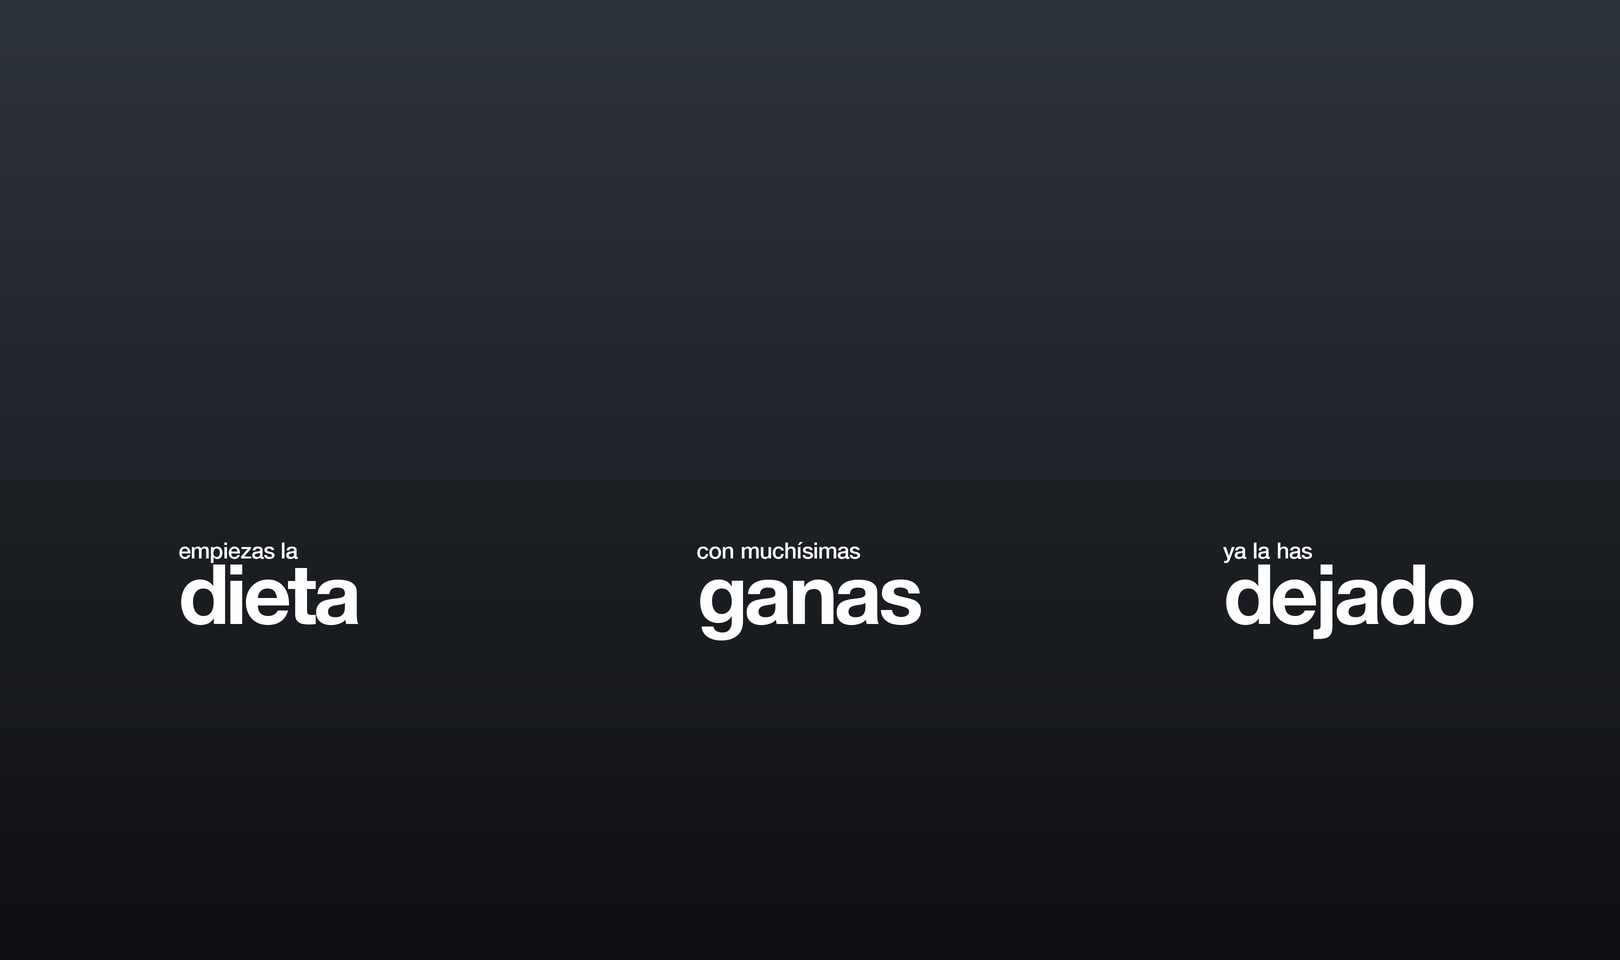
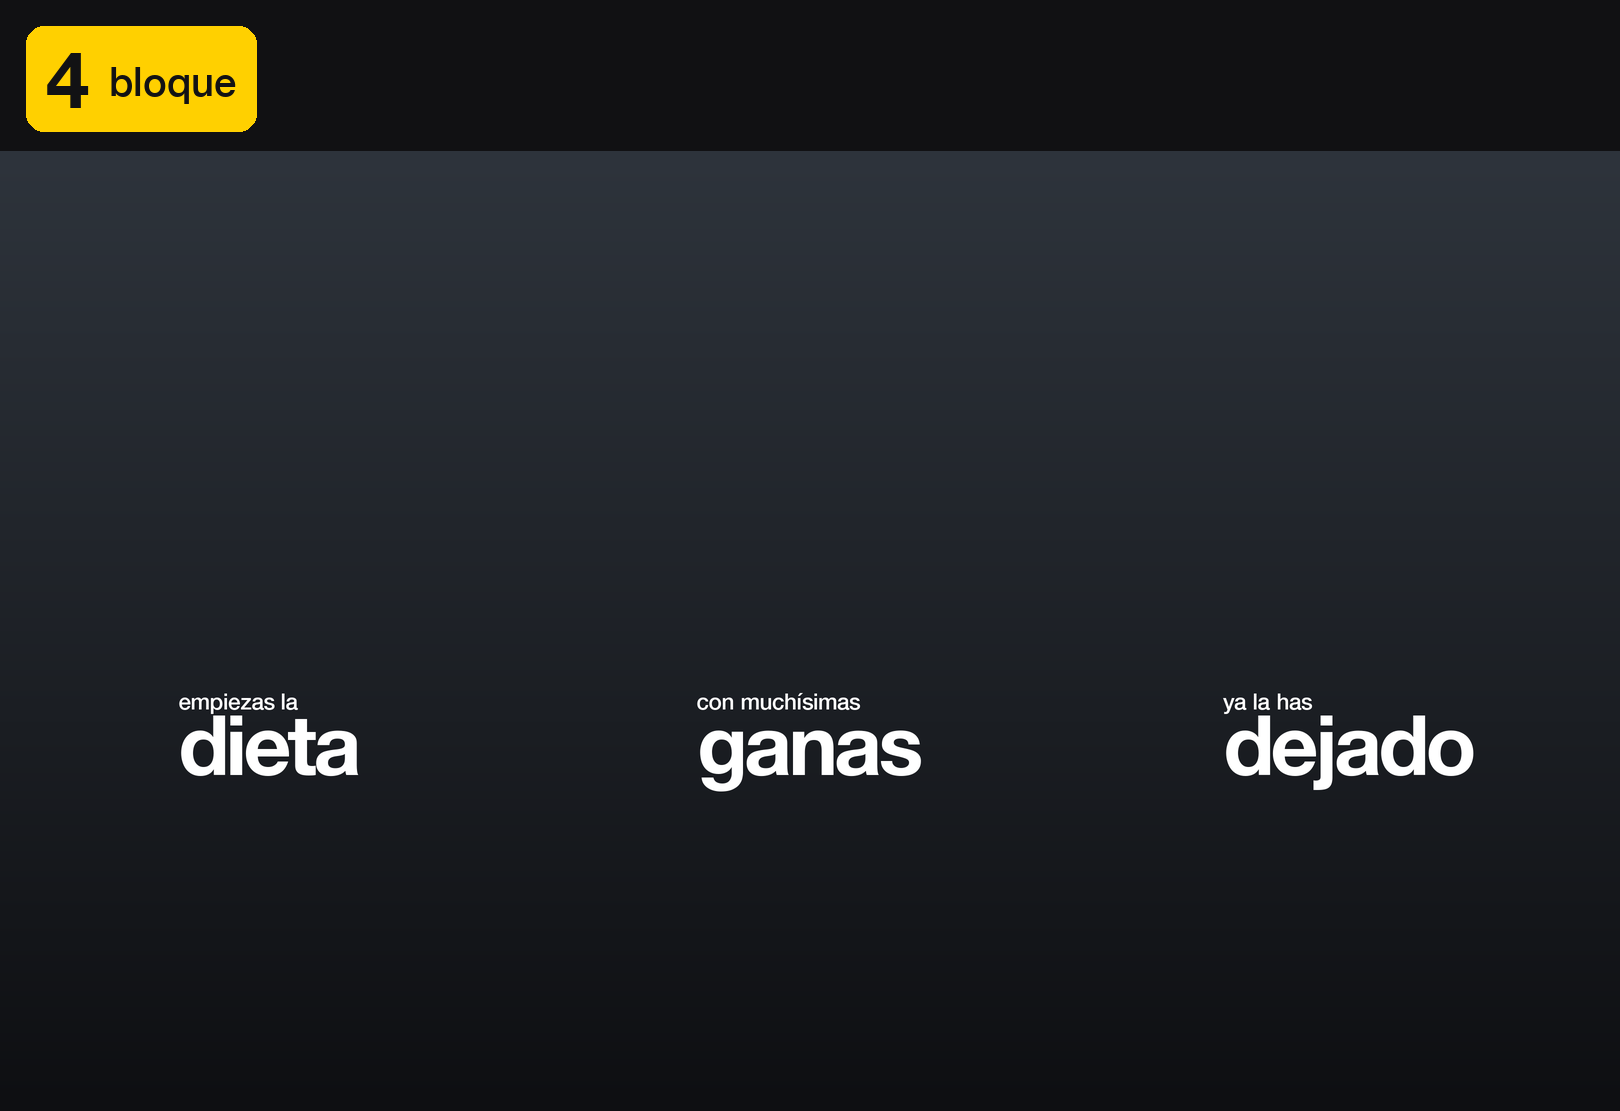
Numeración en todas las imágenes: subtítulos 1-4 y estilos 1-11
Cada muestra y captura lleva su número y nombre en una franja encima (sin tapar
el contenido) y el catálogo de estilos tiene la columna N.º, para pedirlos por número.

diff --git a/editor/catalogo/catalogo.md b/editor/catalogo/catalogo.md
@@ -2,21 +2,23 @@
 
 ## Formatos completos (aprobados en vídeos reales, con captura)
 
+Cada captura lleva su número arriba: pide el estilo por su número («hazlo con el estilo 3»).
+
 Motor listo para Mac y Windows: `ranking-circulos`, `dos-barras`, `errores-detras`, `mal-bien-detras`, `marcador-funciona`. El resto trae un motor de referencia que Claude adapta.
 
-| Estilo | Para qué | Captura |
-|---|---|---|
-| 🆕 `movil-cifras-coral` | Persona a cámara vendiendo un servicio: siempre de fondo, móvil con pantalla de bloqueo, 100 muñecos a pantalla completa, cifra blanca + cursiva coral, subtítulos letra a letra | `capturas/movil-cifras-coral.jpg` |
-| 🆕 `zambullida-epica` | Anuncio épico con voz en off a 60 fps: la cámara se mete dentro de los objetos (globo, mapa, móviles 3D, reloj, notas) y la escena siguiente se abre desde dentro | `capturas/zambullida-epica.jpg` |
-| ⭐ `ranking-circulos` | Top 5 / del 1 al 10: panel al lado, cada puesto con su foto en círculo que vuela a su sitio, el 1 en dorado. El favorito | `capturas/ranking-circulos.jpg` |
-| `errores-detras` | Lista de errores con un gráfico propio por punto DETRÁS del cuerpo y cierre con la ficha de Google | `capturas/errores-detras.jpg` |
-| `mal-bien-detras` | Esto está mal / esto está bien: MAL rojo y BIEN verde gigantes detrás del cuerpo | `capturas/mal-bien-detras.jpg` |
-| `tiro-hecho-horizontal` (en pruebas) | Vídeos horizontales 16:9 (YouTube, VSL, lecciones): texto gigante detrás, escenas de interfaz, subtítulos en minúscula | `capturas/tiro-hecho-horizontal.jpg` |
-| `dos-barras` | «Si quieres X, haz Y»: SI QUIERES en rojo, HAZ ESTO en verde | `capturas/dos-barras.jpg` |
-| `pesas-que-se-encienden` | Lo malo, lo bueno y lo perfecto con objetos reales que se iluminan | `capturas/pesas-que-se-encienden.jpg` |
-| `marcador-circulos` | Funciona / no funciona: marcador arriba con fotos en círculo | `capturas/marcador-circulos.jpg` |
-| `analisis-tecnica` | Corregir un ejercicio: congelado con líneas sobre el cuerpo, ✓/✕ | `capturas/analisis-tecnica.jpg` |
-| `analisis-repeticion` | Manera incorrecta / correcta, ejercicio a ejercicio | `capturas/analisis-repeticion.jpg` |
+| N.º | Estilo | Para qué | Captura |
+|---|---|---|---|
+| **1** | 🆕 `movil-cifras-coral` | Persona a cámara vendiendo un servicio: siempre de fondo, móvil con pantalla de bloqueo, 100 muñecos a pantalla completa, cifra blanca + cursiva coral, subtítulos letra a letra | `capturas/movil-cifras-coral.jpg` |
+| **2** | 🆕 `zambullida-epica` | Anuncio épico con voz en off a 60 fps: la cámara se mete dentro de los objetos (globo, mapa, móviles 3D, reloj, notas) y la escena siguiente se abre desde dentro | `capturas/zambullida-epica.jpg` |
+| **3** | ⭐ `ranking-circulos` | Top 5 / del 1 al 10: panel al lado, cada puesto con su foto en círculo que vuela a su sitio, el 1 en dorado. El favorito | `capturas/ranking-circulos.jpg` |
+| **4** | `errores-detras` | Lista de errores con un gráfico propio por punto DETRÁS del cuerpo y cierre con la ficha de Google | `capturas/errores-detras.jpg` |
+| **5** | `mal-bien-detras` | Esto está mal / esto está bien: MAL rojo y BIEN verde gigantes detrás del cuerpo | `capturas/mal-bien-detras.jpg` |
+| **6** | `tiro-hecho-horizontal` (en pruebas) | Vídeos horizontales 16:9 (YouTube, VSL, lecciones): texto gigante detrás, escenas de interfaz, subtítulos en minúscula | `capturas/tiro-hecho-horizontal.jpg` |
+| **7** | `dos-barras` | «Si quieres X, haz Y»: SI QUIERES en rojo, HAZ ESTO en verde | `capturas/dos-barras.jpg` |
+| **8** | `pesas-que-se-encienden` | Lo malo, lo bueno y lo perfecto con objetos reales que se iluminan | `capturas/pesas-que-se-encienden.jpg` |
+| **9** | `marcador-circulos` | Funciona / no funciona: marcador arriba con fotos en círculo | `capturas/marcador-circulos.jpg` |
+| **10** | `analisis-tecnica` | Corregir un ejercicio: congelado con líneas sobre el cuerpo, ✓/✕ | `capturas/analisis-tecnica.jpg` |
+| **11** | `analisis-repeticion` | Manera incorrecta / correcta, ejercicio a ejercicio | `capturas/analisis-repeticion.jpg` |
 
 ## Resto del catálogo (miniaturas en `miniaturas/`)
 

diff --git a/editor/subtitulos/LEEME.md b/editor/subtitulos/LEEME.md
@@ -9,6 +9,8 @@ Son presets de subtítulos que funcionan **con cualquier estilo de edición**. S
 | **3** | **repartidos** (APROBADO) | Helvetica Neue Condensed Bold blanca de 104 px; una palabra por renglón, en zigzag pegada a izquierda y derecha, por debajo de la cara. Cada palabra sube, se enfoca y aparece al decirse | `03-repartidos/` |
 | **4** | **bloque** (APROBADO) | Clave enorme en Helvetica Neue Bold blanca y palabras pequeñas colgadas en sus esquinas (antes arriba a la izquierda, después abajo a la derecha); cada palabra aparece al decirse. Sin sombra ni caja, sobre zona oscura. Vale en vertical y horizontal | `04-bloque/` |
 
+Cada `muestra.png` lleva su número arriba (1 a 4): pídelo por número.
+
 Cada carpeta trae:
 - `LEEME.md`: la receta completa (aspecto, cómo agrupa las palabras, animación, cómo se usa y qué no hacer).
 - El script que genera la secuencia de PNG transparentes.
